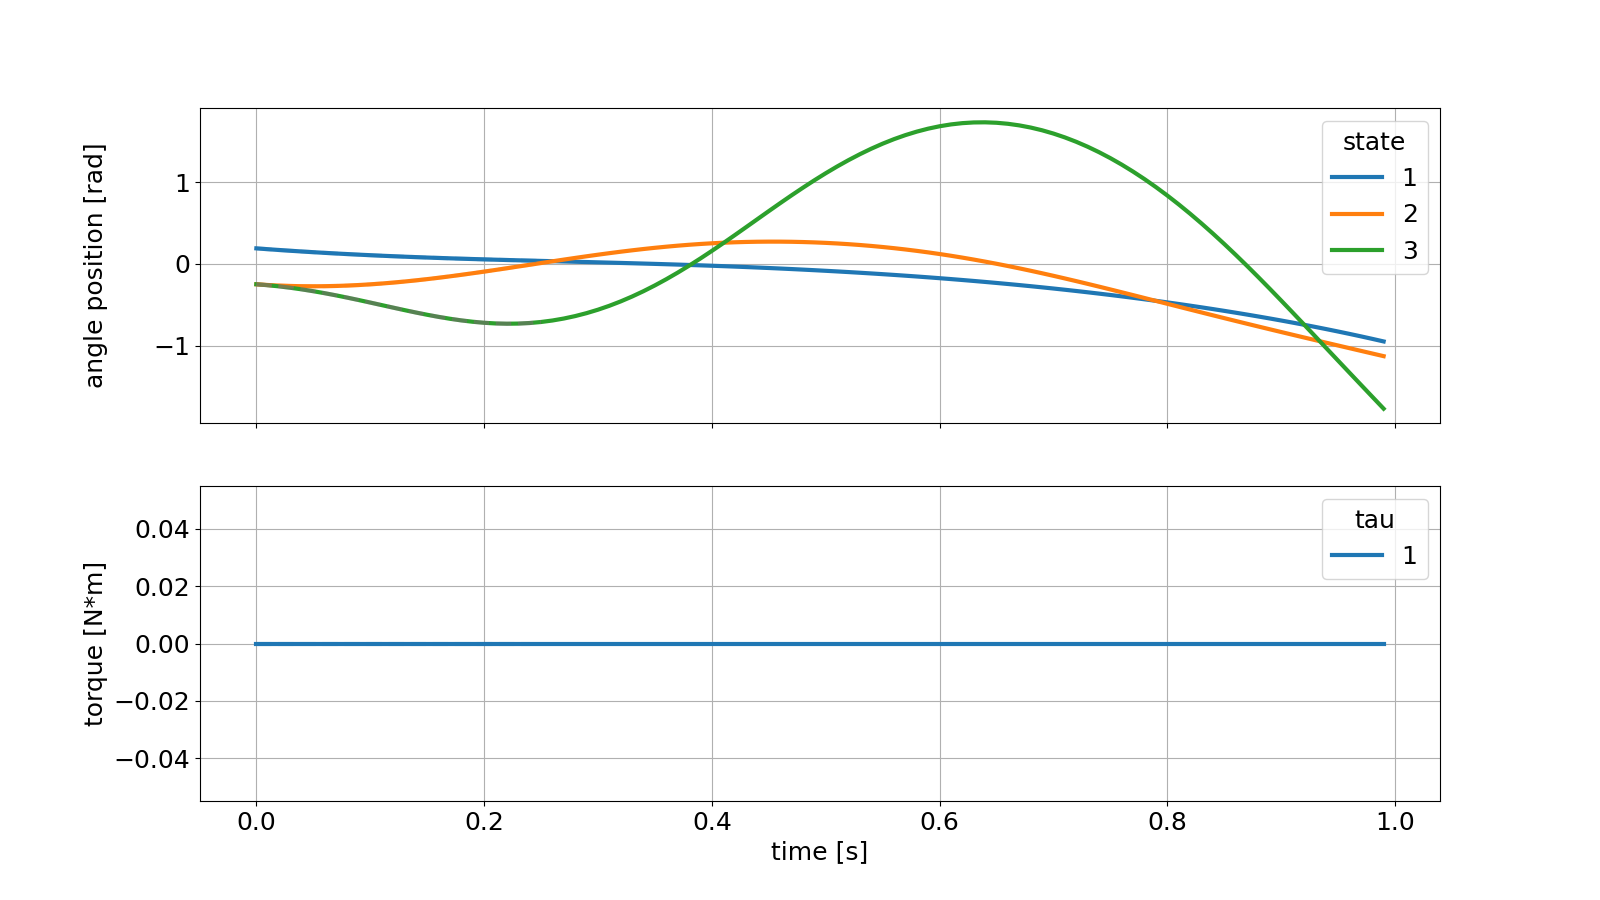
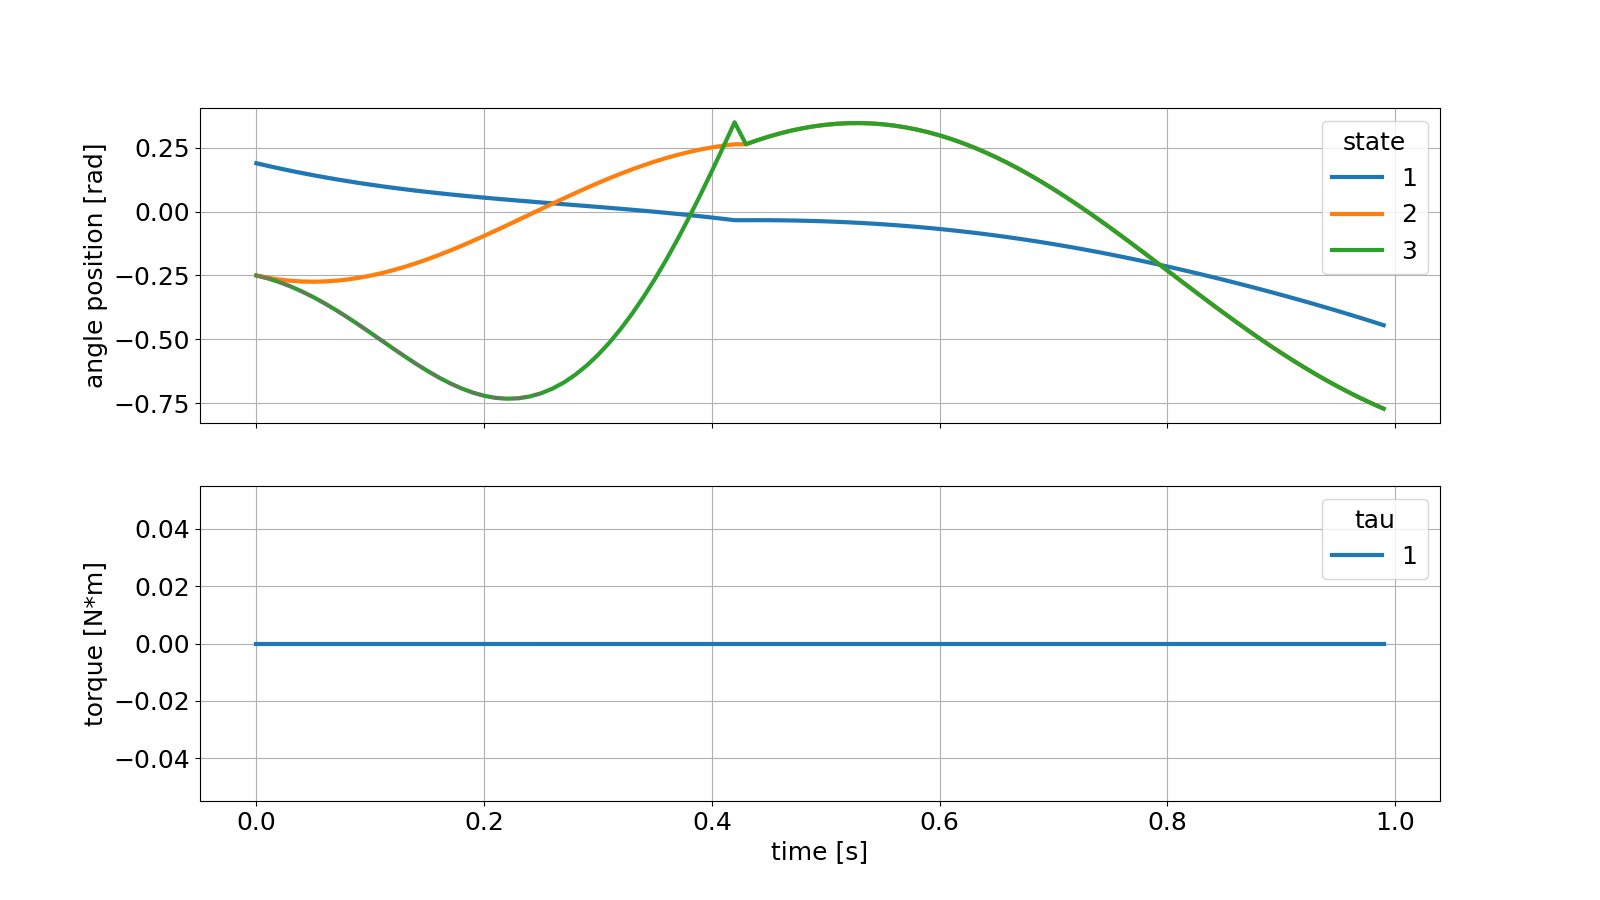
before updating to seperate models for locked and unlocked knee

diff --git a/code/do-mpc/example/threelink/sys_unlocked.py b/code/do-mpc/example/threelink/sys_unlocked.py
@@ -1,0 +1,120 @@
+import numpy as np
+
+# Add do_mpc to path. This is not necessary if it was installed via pip.
+import sys
+import os
+rel_do_mpc_path = os.path.join('..','..')
+sys.path.append(rel_do_mpc_path)
+
+# Import do_mpc package:
+import do_mpc
+
+"""
+## CONFIG SYSTEM
+"""
+
+# set number of steps
+num_steps = 100
+delta_t = 0.01
+
+
+model_type = 'continuous' # either 'discrete' or 'continuous'
+model = do_mpc.model.Model(model_type)
+
+
+#set states
+x1 = model.set_variable(var_type='_x', var_name='x1', shape=(1,1))
+x2 = model.set_variable(var_type='_x', var_name='x2', shape=(1,1))
+x3 = model.set_variable(var_type='_x', var_name='x3',shape=(1,1))
+
+dx1 = model.set_variable(var_type='_x', var_name='dx1', shape=(1,1))
+dx2 = model.set_variable(var_type='_x', var_name='dx2', shape=(1,1))
+dx3 = model.set_variable(var_type='_x', var_name='dx3', shape=(1,1))
+
+
+
+# control / inputs
+tau = model.set_variable(var_type='_u', var_name='tau', shape=(1,1))
+
+
+
+#print('x1={}, with x1.shape={}'.format(x1, x1.shape))
+#print('x2={}, with x2.shape={}'.format(x2, x1.shape))
+#print('dx1={}, with dx1.shape={}'.format(dx1, dx1.shape))
+#print('dx2={}, with dx2.shape={}'.format(dx2, dx2.shape))
+
+# set params
+a1 = 0.375
+b1 = 0.125
+a2 = 0.175
+b2 = 0.325
+mh = 0.5
+mt = 0.5
+ms = 0.05
+g=9.81
+L = a1+b1+a2+b2
+ls = a1+b1
+lt = a2+b2
+phi = .05
+
+
+# dynamic matrix (will be inverted)
+H11 = ms*a1**2 + mt*(ls+a2)**2 + (mh+ms+mt)*L**2
+H12 = -(mt*b2 + ms*lt)*L*np.cos(x2-x1)
+H13 = -ms*b1*L*np.cos(x3-x1)
+H22 = mt*b2**2 + ms*lt**2
+H23 = ms*lt*b1*np.cos(x3-x2)
+H33 = ms*b1**2
+H21 = H12
+H31 = H13
+H32 = H23
+
+# B matrix
+B11 = 0
+B12 = (-(mt*b2+ms*lt)*L*np.sin(x1-x2))*dx2
+B13 = (-ms*b1*L*np.sin(x1-x3))*dx3
+B21 = ((mt*b2+ms*lt)*L*np.sin(x1-x2))*dx1
+B22 = 0
+B23 = (ms*lt*b1*np.sin(x3-x2))*dx3
+B31 = (ms*b1*L*np.sin(x1-x3))*dx1
+B32 = (-ms*lt*b1*np.sin(x3-x2))*dx2
+B33 = 0
+
+# Gravity Matrix
+G1 = -(ms*a1+mt*(ls+a2)+(mh+ms+mt)*L)*g*np.sin(x1)
+G2 = (mt*b2 + ms*lt)*g*np.sin(x2)
+G3 = (ms*b1*g*np.sin(x3))
+
+# inverting H matrix
+#determinate
+detH = H11*(H33*H22 - H23**2) - H21*(H33*H12 - H23*H13) + H13*(H23*H12 - H22*H13)
+# inverse terms
+H_I11 = (H33*H22 - H23**2)/detH
+H_I12 = (H13*H23 - H33*H12)/detH
+H_I13 = (H12*H23 - H13*H22)/detH
+H_I22 = (H33*H11 - H13**2)/detH
+H_I23 = (H12*H13 - H11*H23)/detH
+H_I33 = (H11*H22 - H12**2)/detH
+H_I21 = H_I12
+H_I31 = H_I13
+H_I32 = H_I23
+
+# U matrix (torque)
+U1 = 0
+U2 = 0
+U3 = 0
+
+dx1set = -( (H_I12*B21 + H_I13*B31)*x1 + (H_I11*B12 + H_I13*B32)*x2 + (H_I11*B13 + H_I12*B23)*x2 ) - (H_I11*G1 + H_I12*G2 + H_I13*G3) + (H_I11*U1 + H_I12*U2 + H_I13*U3)*tau
+dx2set = -( (H_I22*B21 + H_I23*B31)*x1 + (H_I21*B12 + H_I23*B32)*x2 + (H_I21*B13 + H_I22*B23)*x3 ) - (H_I21*G1 + H_I22*G2 + H_I23*G3) + (H_I21*U1 + H_I22*U2 + H_I23*U3)*tau
+dx3set = -( (H_I32*B21 + H_I33*B31)*x1 + (H_I31*B12 + H_I33*B32)*x2 + (H_I31*B13 + H_I32*B23)*x3 ) - (H_I31*G1 + H_I32*G2 + H_I33*G3) + (H_I31*U1 + H_I32*U2 + H_I33*U3)*tau
+
+# set rhs
+model.set_rhs('x1',dx1)
+model.set_rhs('x2',dx2)
+model.set_rhs('x3',dx3)
+model.set_rhs('dx1',dx1set)
+model.set_rhs('dx2',dx2set)
+model.set_rhs('dx3',dx3set)
+
+
+model.setup()

diff --git a/code/do-mpc/example/threelink/threelink.py b/code/do-mpc/example/threelink/threelink.py
@@ -276,26 +276,41 @@ for file in files:
     file_path = os.path.join(directory, file) 
     os.remove(file_path) 
 
-
+kneelock = False
 from threelink_trans import kneestrike
 for i in range(num_steps):
-    u0 = mpc.make_step(x0)
-    x0 = simulator.make_step(u0)
-    stepnum = i+1
 
-    curx1 = mpc.x0['x1',0]
-    curx2 = mpc.x0['x2',0]
-    curx3 = mpc.x0['x3',0]
-    curdx1 = mpc.x0['dx1',0]
-    curdx2 = mpc.x0['dx2',0]
-    curdx3 = mpc.x0['dx3',0]
+    stepnum = i+1
+    curx1 = float(mpc.x0['x1',0])
+    curx2 = float(mpc.x0['x2',0])
+    curx3 = float(mpc.x0['x3',0])
+    curdx1 = float(mpc.x0['dx1',0])
+    curdx2 = float(mpc.x0['dx2',0])
+    curdx3 = float(mpc.x0['dx3',0])
+    #print('x1: ', curx1)
     #print('x2: ', curx2)
     #print('x3: ', curx3)
-    print('x2-x3: ' ,curx2-curx3)
+    #print('x4: ', curdx1)
+    #print('x5: ', curdx2)
+    #print('x6: ', curdx3)
+    #print('x2-x3: ' ,curx2-curx3)
+    print(stepnum)
+    if (kneelock == True):
+        x0 = np.array([x0[0], x0[1], x0[1], x0[3], x0[4], x0[4]]).reshape(-1,1)
+        simulator.x0 = x0
+        print('forcing')
+
     if (curx2-curx3) < 0:
         #knee strike
-        newstates = kneestrike(curx1, curx2, curx3, curdx1, curdx2, curdx3)
-    
+        newstates = kneestrike(curx1, curx2, curx3, curdx1, curdx2, curdx3, a1=a1, a2=a2, b1=b1, b2=b2, mh=mh, mt=mt, ms=ms)
+        x0 = np.array([newstates[0], newstates[1], newstates[2], newstates[3], newstates[4], newstates[5]]).reshape(-1,1)
+        simulator.x0 = x0
+        print('KNEESTRIKE')
+        kneelock = True
+    u0 = mpc.make_step(x0)
+    x0 = simulator.make_step(u0)
+
+
 
     
 
@@ -323,7 +338,7 @@ x6_result = x[:,5]
 
 # animate motion of the compass gait
 from animate_threelink import animate_threelink
-animate_threelink(x1_result, x2_result,x3_result, a1, b1, a2, b2, phi, saveFig=True, gif_fps=10, name=threeleg_dir+'threeleg.gif')
+animate_threelink(x1_result, x2_result,x3_result, a1, b1, a2, b2, phi, saveFig=True, gif_fps=18, name=threeleg_dir+'threeleg.gif')
 
 # animate the plot window to show real time predictions and trajectory
 from matplotlib.animation import FuncAnimation, FFMpegWriter, ImageMagickWriter

diff --git a/code/do-mpc/example/threelink/threelink_trans.py b/code/do-mpc/example/threelink/threelink_trans.py
@@ -1,8 +1,8 @@
 import numpy as np
 from numpy.linalg import inv
 
-def kneestrike(x1, x2, x3, x4, x5, x6,a1=0.375, a2=0.175, b1=0.125, b2=0.325, mh=0.5, mt=0.5, mh=0.5):
-    
+def kneestrike(x1, x2, x3, x4, x5, x6,a1=0.375, a2=0.175, b1=0.125, b2=0.325, mh=0.5, mt=0.5, ms=0.05):
+
     ls = a1+b1
     lt = a2+b2
     L = ls + lt
@@ -20,10 +20,29 @@ def kneestrike(x1, x2, x3, x4, x5, x6,a1=0.375, a2=0.175, b1=0.125, b2=0.325, mh
     Q23_minus = ms*b1*lt*np.cos(gamma) + ms*b1**2
 
     # post matrix
-    Q22_plus = ms*(lt+b1)**2 + mt*b2**2
     Q21_plus = -(ms*(b1+lt) + mt*b2)*L*np.cos(alpha)
-    Q12_plus = Q21_plus + ms*(lt+b1)**2 + mt*b2**2
-    Q11_plus = Q21_plus + mt*(ls+a2)**2 + (mh + mt + ms)*L**2 + ms*a1**2
+    Q12_plus = -(ms*(b1+lt) + mt*b2)*L*np.cos(alpha) + (ms*(lt+b1)**2 + mt*b2**2)
+    Q11_plus = -(ms*(b1+lt) + mt*b2)*L*np.cos(alpha) + (mt*(ls+a2)**2 + (mh + mt + ms)*L**2 + ms*a1**2)
+    Q22_plus = ms*(lt+b1)**2 + mt*(b2**2)
 
     Q_minus = np.array([[Q11_minus, Q12_minus, Q13_minus], [Q21_minus, Q22_minus, Q23_minus]])
-    Q_plus = np.array([[Q11_plus, Q22_]])
+    Q_plus = np.array([[Q11_plus, Q12_plus], [Q21_plus, Q22_plus]])
+    
+    Q_plus_inv = inv(Q_plus)
+
+    H = np.dot(Q_plus_inv, Q_minus)
+    #print(H)
+    oldvelo = np.array([[x4], [x5], [x6]])
+    #print('oldvelo: ', oldvelo)
+
+    newstates = np.dot(H, oldvelo)
+    newx1 = x1
+    newx2 = x2
+    newx3 = x2
+    newx4 = newstates[0,0]
+    newx5 = newstates[1,0]
+    newx6 = newx5
+
+    new_states_init = [newx1, newx2, newx3, newx4, newx5, newx6]
+    #print(new_states_init)
+    return new_states_init
